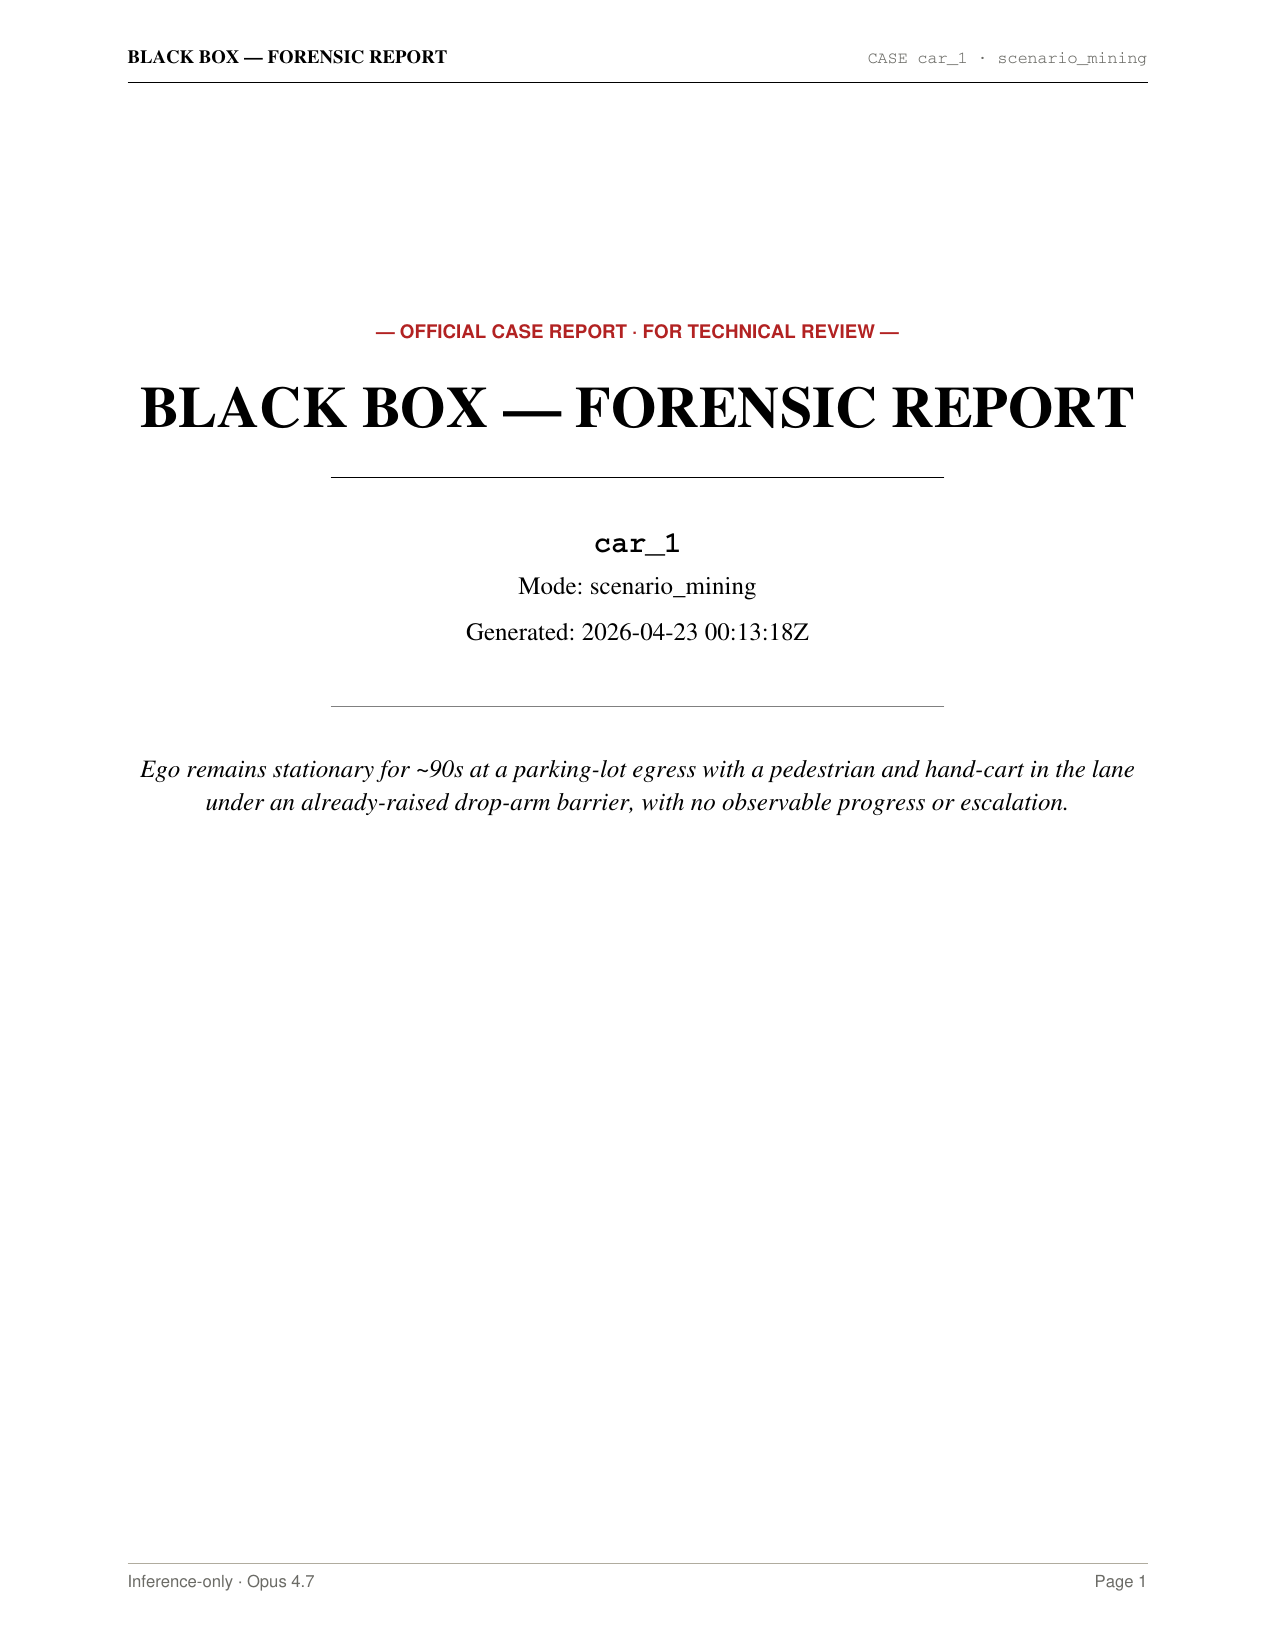
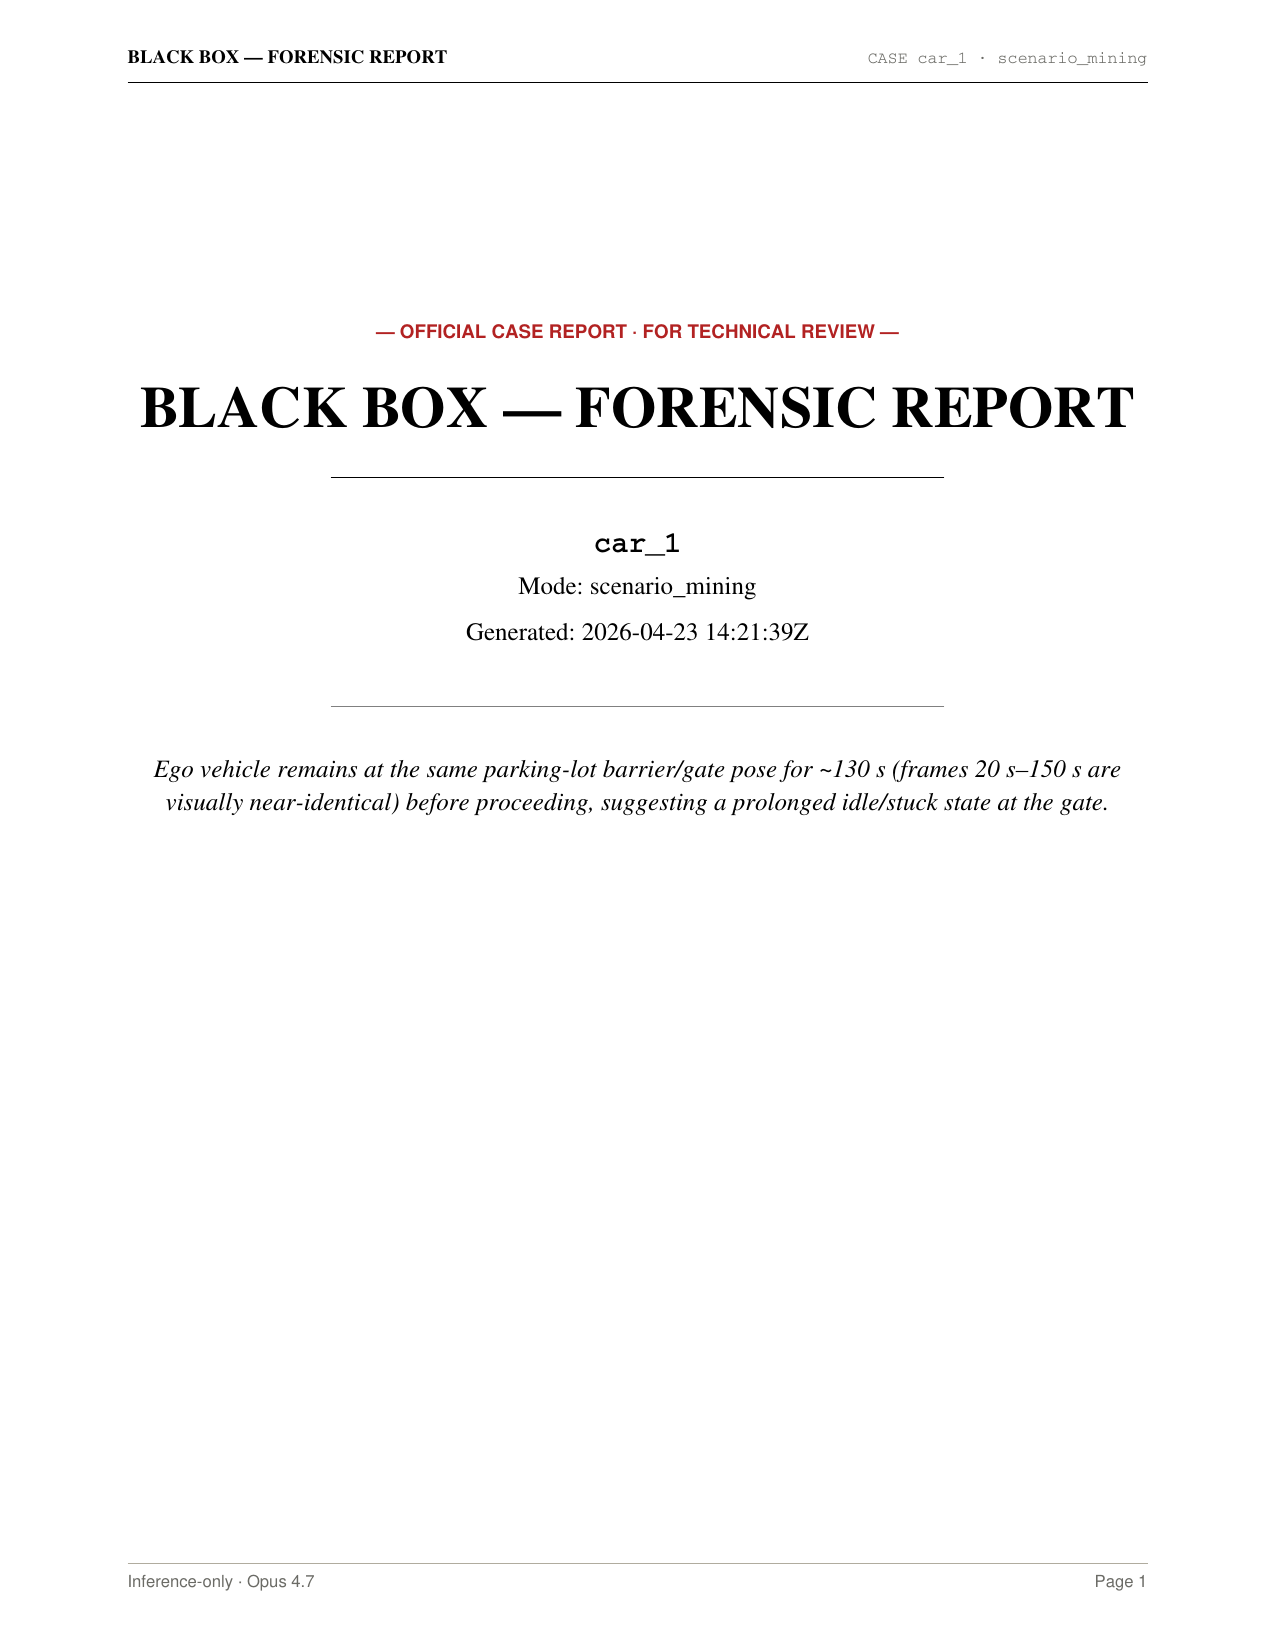
feat(pipeline): generalize telemetry-anchored vision to car_1 + boat
- extract_camlidar_generic now reuses pre-extracted frames when present,
  so scripts/extract_session_frames.py drives the sampling for any car
  case (not just sanfer). Uniform 30s-stride extraction is the fallback
  when no windows-aware extraction ran first.
- New _salvage_from_stream helper: when the model emits the JSON report
  but finalize rejects it (disclaimer preamble, bug_class outside the
  closed enum), we scrape the largest {...} from the assistant text in
  stream_events.jsonl, remap non-enum labels via _BUG_CLASS_REMAP
  (stuck_planner -> state_machine_deadlock, sensor_exposure -> other,
  gnss_dropout -> sensor_timeout, etc.), and persist a usable report.
  Status becomes "salvaged_finalize_failure" instead of a hard fail.

car_1 rerun (cost $2.76, 225 s):
- 48 telemetry-anchored frames (8 baseline + 40 dense across the
  0-180 s dwell window + 390-420 s close-follow window, replacing 32
  uniform 30-s-stride frames).
- Finalize hit the enum issue (model proposed "stuck_planner" +
  "sensor_exposure"); salvage path remapped cleanly.
- Primary finding upgraded to state_machine_deadlock 0.60 with a
  130-second continuous dwell confirmed by the dense vision pass
  (frames 20-150 s visually identical — same cars, same pedestrian
  position). Original uniform-stride run caught the pattern too but
  couldn't rule out intermittency with 30 s samples.
- Secondary: AE convergence failure (~5 s of overexposed frames before
[…]

Changed region(s): [[0.1224, 0.4634, 0.8871, 0.4942], [0.5506, 0.3707, 0.6118, 0.4016]]

diff --git a/scripts/final_pipeline.py b/scripts/final_pipeline.py
@@ -598,13 +598,24 @@ def extract_boat(out_dir: Path) -> dict:
 
 def extract_camlidar_generic(bag_path: Path, case_name: str, out_dir: Path,
                              target_dt_s: float = 30.0, max_frames: int = 40) -> dict:
-    """Generic extractor for huge car cam-lidar bags — topics + sparse frames."""
+    """Generic extractor for huge car cam-lidar bags — topics + sparse frames.
+
+    If frames/frame_*.jpg already exist (e.g. pre-extracted via
+    scripts/extract_session_frames.py with telemetry-anchored windows),
+    reuses them instead of re-sampling uniformly. Topics + summary are
+    still regenerated from the bag.
+    """
     frames_dir = out_dir / "frames"
     frames_dir.mkdir(exist_ok=True)
     artifacts: list[str] = []
     topics_txt: list[str] = [f"# {bag_path.name}"]
     frame_count = 0
     duration_s = 0.0
+
+    existing_frames = sorted(frames_dir.glob("frame_*.jpg"))
+    reuse = bool(existing_frames)
+    if reuse:
+        log(f"  reusing {len(existing_frames)} pre-extracted frames from {frames_dir}")
 
     with AnyReader([bag_path]) as r:
         start_ns = int(r.start_time)
@@ -626,6 +637,12 @@ def extract_camlidar_generic(bag_path: Path, case_name: str, out_dir: Path,
         if image_conns:
             chosen = image_conns[0]
             topics_txt.append(f"# chosen frame topic: {chosen.topic}")
+        if reuse:
+            for p in existing_frames:
+                artifacts.append(f"frames/{p.name}")
+            frame_count = len(existing_frames)
+        elif image_conns:
+            chosen = image_conns[0]
             last_kept_s = -999.0
             frame_deadline = time.monotonic() + 240.0
             for conn, t_ns, raw in r.messages(connections=[chosen]):
@@ -775,6 +792,83 @@ class BagSpec:
     prompt: str
     cost_cap_usd: float
     extra_config: dict | None = None
+
+
+_BUG_CLASS_REMAP = {
+    # Closed-set taxonomy shim: models occasionally propose descriptive labels
+    # that aren't in the enum. Map them rather than discarding the analysis.
+    "stuck_planner": "state_machine_deadlock",
+    "planner_stuck": "state_machine_deadlock",
+    "sensor_exposure": "other",
+    "ae_convergence": "other",
+    "auto_exposure": "other",
+    "overexposed": "other",
+    "exposure_failure": "other",
+    "gnss_dropout": "sensor_timeout",
+    "rtk_failure": "sensor_timeout",
+    "gps_dropout": "sensor_timeout",
+    "tunnel_dropout": "sensor_timeout",
+    "frozen_sensor": "missing_null_check",
+    "stale_data": "sensor_timeout",
+}
+
+
+def _salvage_from_stream(stream_events_path: Path, case_name: str) -> dict | None:
+    """Reconstruct a PostMortemReport from raw assistant text.
+
+    When the model emits a response that contains the JSON but prepends a
+    disclaimer or uses a bug_class outside the closed set, session.finalize
+    rejects the whole payload. This helper:
+      1. scans the stream events jsonl for assistant text blocks,
+      2. picks the one with the largest JSON-looking substring,
+      3. remaps non-enum bug_class values via _BUG_CLASS_REMAP (or 'other'),
+      4. returns the parsed dict so the downstream reporter can use it.
+    Returns None if nothing salvageable.
+    """
+    import re
+    try:
+        events = [json.loads(l) for l in open(stream_events_path)]
+    except Exception:
+        return None
+    best: str | None = None
+    for ev in events:
+        if ev.get("type") != "assistant":
+            continue
+        text = ev.get("payload", {}).get("text", "") or ""
+        m = re.search(r"\{.*\}", text, re.DOTALL)
+        if not m:
+            continue
+        cand = m.group(0)
+        if best is None or len(cand) > len(best):
+            best = cand
+    if not best:
+        return None
+    try:
+        data = json.loads(best)
+    except Exception:
+        return None
+    if not isinstance(data, dict) or "hypotheses" not in data:
+        return None
+
+    valid = {"pid_saturation", "sensor_timeout", "state_machine_deadlock",
+             "bad_gain_tuning", "missing_null_check", "calibration_drift",
+             "latency_spike", "sensor_dropout", "config_error",
+             "degraded_state_estimation", "communication_failure", "other"}
+    for h in data.get("hypotheses", []):
+        bc = h.get("bug_class", "other")
+        if bc in valid:
+            continue
+        mapped = _BUG_CLASS_REMAP.get(bc, "other")
+        h["bug_class"] = mapped
+        notes = h.setdefault("notes", [])
+        if isinstance(notes, list):
+            notes.append(f"remapped_from={bc}")
+        if "evidence" in h and "evidence_refs" not in h:
+            h["evidence_refs"] = [
+                e.get("topic_or_file") or e.get("source", "") for e in h["evidence"]
+            ]
+    log(f"[{case_name}] salvaged {len(data.get('hypotheses', []))} hypotheses")
+    return data
 
 
 def run_bag(spec: BagSpec, memory: MemoryStack, global_budget_remaining: float) -> dict:
@@ -948,12 +1042,24 @@ def run_bag(spec: BagSpec, memory: MemoryStack, global_budget_remaining: float) 
                         f"{len(report_payload.get('hypotheses', []))} hypotheses")
                 except Exception as e2:
                     log(f"[{spec.name}] finalize still failed after retry: {e2}")
-                    status = "finalize_failed"
-                    error_msg = str(e2)[:400]
+                    report_payload = _salvage_from_stream(stream_events_path, spec.name)
+                    if report_payload is not None:
+                        log(f"[{spec.name}] SALVAGED from stream — "
+                            f"{len(report_payload.get('hypotheses', []))} hypotheses")
+                        status = "salvaged_finalize_failure"
+                    else:
+                        status = "finalize_failed"
+                        error_msg = str(e2)[:400]
             else:
                 log(f"[{spec.name}] finalize failed: {e}")
-                status = "finalize_failed"
-                error_msg = msg[:400]
+                report_payload = _salvage_from_stream(stream_events_path, spec.name)
+                if report_payload is not None:
+                    log(f"[{spec.name}] SALVAGED from stream — "
+                        f"{len(report_payload.get('hypotheses', []))} hypotheses")
+                    status = "salvaged_finalize_failure"
+                else:
+                    status = "finalize_failed"
+                    error_msg = msg[:400]
     except Exception as e:
         log(f"[{spec.name}] session exception: {e}")
         traceback.print_exc()

diff --git a/demo_assets/analyses/TOP_FINDINGS.md b/demo_assets/analyses/TOP_FINDINGS.md
@@ -4,7 +4,7 @@
 |------|----------------------:|-----------|-----:|---------|----------------|---------------|
 | sanfer_tunnel | 240000000 | sensor_timeout | 0.60 | Moving-baseline RTCM uplink from `/ublox_moving_base` to `/ublox_rover` is silently dead for the whole session — rover's differential-input port never receives MB carrier-phase observations, so `carr_soln` never leaves `none`. A tunnel pass IS visible in frames 2617–2696 s (num_sv 29→16, h_acc 1.3 m), but the autonomy fault pre-existed: it only became operationally visible at the tunnel. | `ublox_rover_navrelposned.csv` + dense cam1 frames 2617–2696 s | Enable RTCM3 4072.0/4072.1 + MSM7 (1077/1087/1097/1127) on MB UART2 and `CFG-UART2INPROT-RTCM3X=1` on rover UART2; add pre-drive diagnostic that blocks launch until `carr_soln ∈ {float,fixed}` for ≥10 s. |
 | boat_lidar | 1756916766957187027 | other | 0.85 | `/lidar_imu` topic declared w/ QoS but msg_count=0 over 416.76s. Platform is LIDAR-only (no GPS/encoder/camera), so IMU silence removes the only inertial reference on an autonomous USV. | `/lidar_imu` (sensor_msgs/msg/Imu) | Enable IMU output in LIDAR driver config (Ouster `imu_port` / Livox `publish_imu_data: true`); add liveness watchdog aborting mission if `/lidar_imu` silent >1s. |
-| car_1 | 45000000000 | other | 0.75 | Ego stationary ~90s at parking-lot egress w/ pedestrian+hand-cart in lane under raised barrier; no escalation or progress. | `frame_0045s..0135s` (identical framing across four 30s-spaced samples) | Progress watchdog in behavior planner: v<0.1 m/s w/ dynamic obstacle for >15s → courtesy; >45s → remote assist; >90s → min-risk pull-over. |
+| car_1 | 20100000000 | state_machine_deadlock | 0.60 | Ego stationary ~130 s at parking-lot barrier/gate (frames 20 s–150 s visually identical — same cars, same pedestrian position, same booth) before finally departing onto the adjacent street. Second vision pass with dense 5 s stride across 0–180 s window confirms the dwell is continuous, not intermittent. | `frame_00020.1s..00150.0s_dense.jpg` (27 dense frames across the dwell) | Planner/controller timeout + operator alert when ego stationary > N s with no lead obstacle inside stop distance; verify closed-gate detection path. |
 
 ## Secondary findings
 
@@ -17,7 +17,7 @@
 ### boat_lidar
 - (0.70, other) 10 Hz PointCloud2 without synchronized IMU → no motion compensation for wave-induced roll/pitch/yaw.
 - (0.55, other) Rosbag recorder subscription raced un-launched or misnamed IMU publisher.
+- *Note: session discovery (`discover_session_assets`) correctly identifies `/mnt/ssd_boat/rosbag2_2025_09_17-14_01_14/` as a single ROS2 sqlite3 bag. No camera stream present, so telemetry-anchored vision re-run is a no-op — pipeline keeps its original metadata-only analysis. Demonstrates the pipeline's graceful degradation path on platforms without cameras.*
 
 ### car_1
-- (0.50, other) Forward camera globally saturated for first ~15-30s (AE/gain didn't converge) — luma>240 in `frame_0015s`.
-- (0.35, other) On motion resume ego passes pedestrian at <1m lateral clearance off front-left.
+- (0.55, other) Forward camera severely overexposed for first ~5 s of the stream (`frame_00015.3s` near-pure white, `frame_00017.6s` partial recovery, normalized by `frame_00020.1s`) — AE didn't converge before recording started. Gate perception consumers behind an AE-converged check.

diff --git a/demo_assets/bag_footage/README.md b/demo_assets/bag_footage/README.md
@@ -6,7 +6,7 @@ Frames extracted directly from operator-supplied ROS bags — this is the raw pi
 
 Source bag: `1_cam-lidar.bag`, duration 970.2 s, topic `/cam1/image_raw/compressed` (29 109 msgs @ ~30 Hz).
 
-Sampled by the ingestion pipeline at 30 s intervals → 32 JPGs. This is the exact same frame set the vision pipeline saw when producing `data/final_runs/car_1/analysis.json`.
+**Legacy uniform sample** (retired): 32 JPGs at 30 s intervals are still shipped in this dir for demo-script continuity. The production pipeline now uses 48 telemetry-anchored frames (8 baseline + 40 dense) generated via `scripts/extract_session_frames.py`, anchored on the timeline windows [15-180 s] (overexposure + 130 s dwell) and [390-420 s] (close follow). Native pipeline output lives in `data/final_runs/car_1/bundle/frames/`.
 
 | file | what |
 |------|------|
